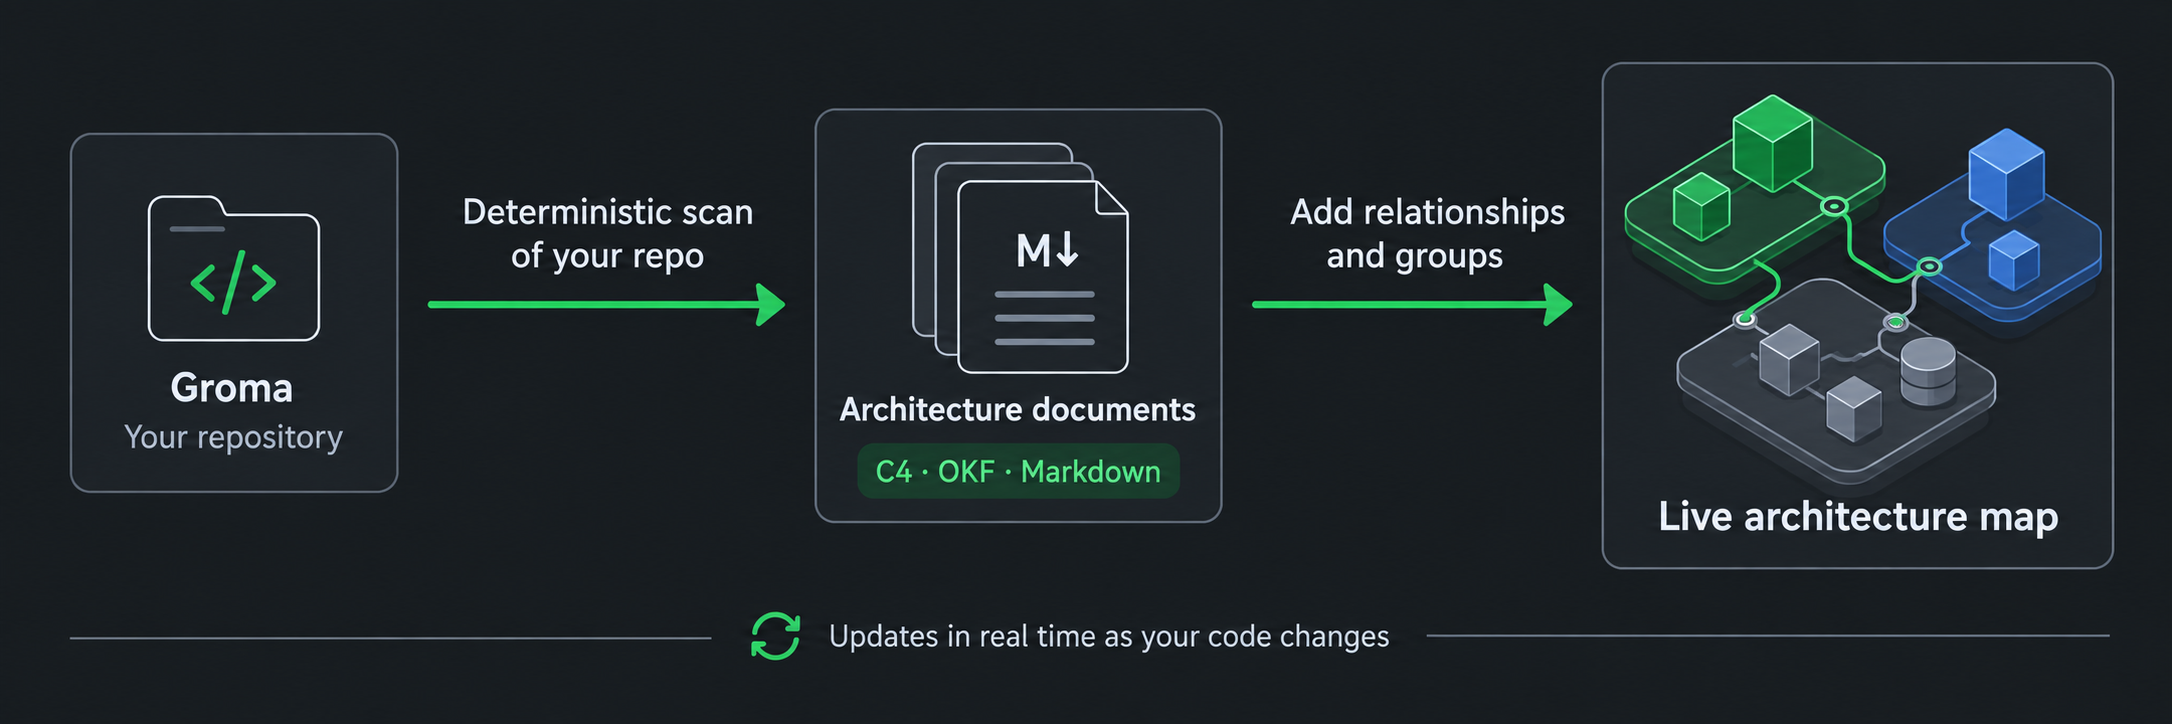
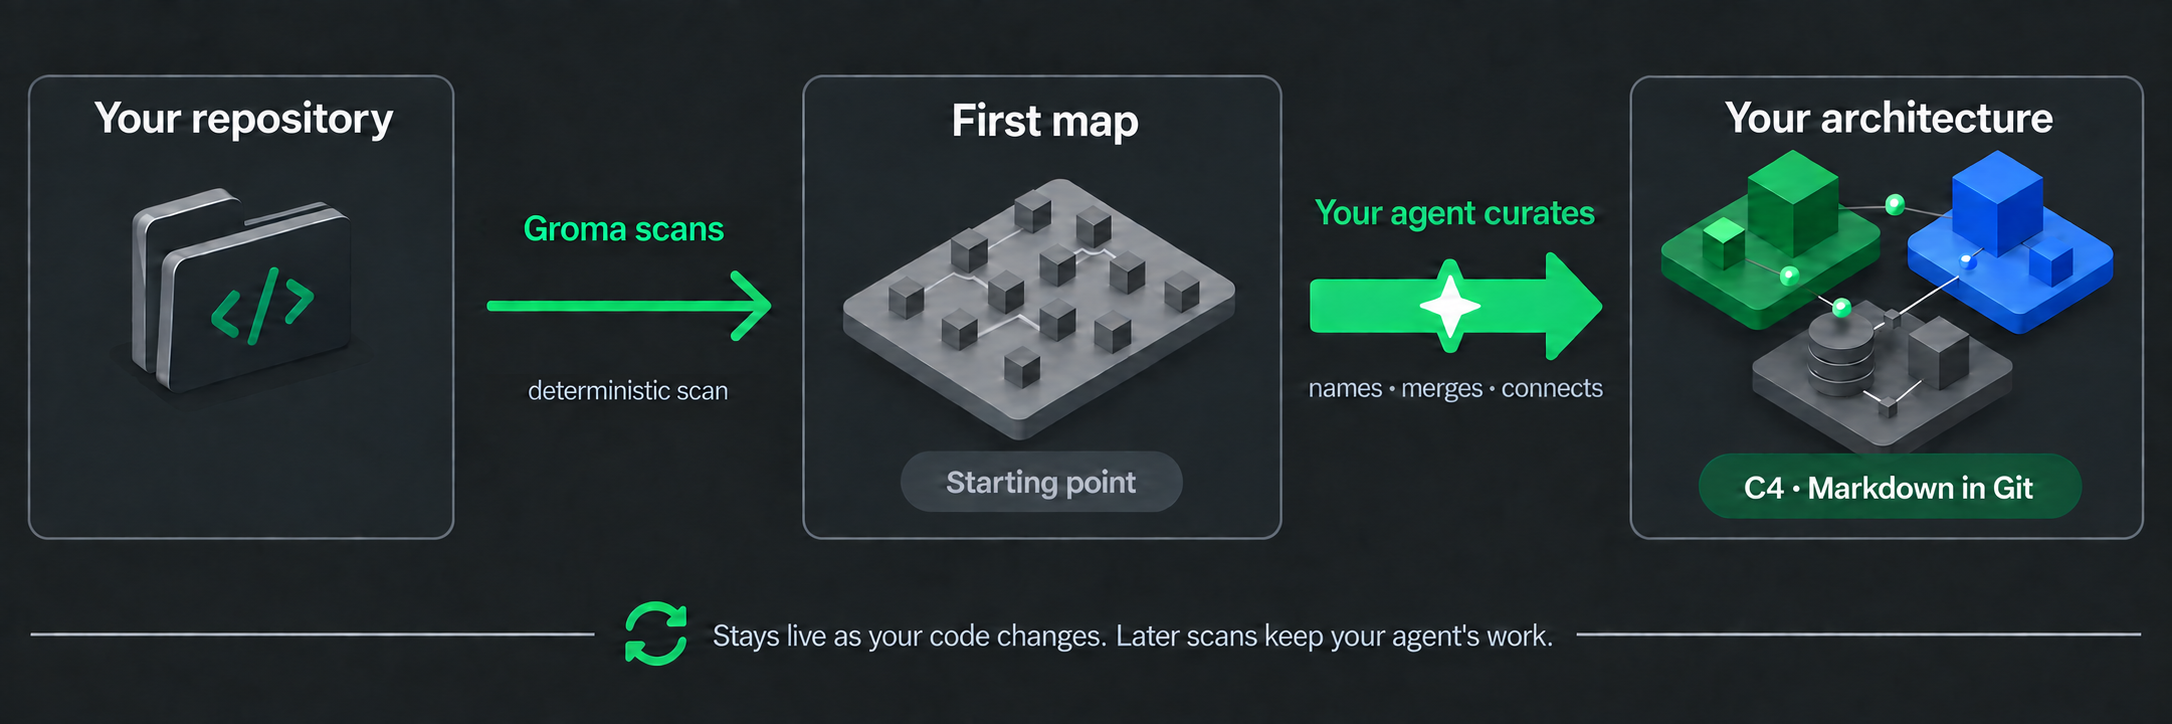
docs: show the scan, then agent curation, in README onboarding

diff --git a/README.md b/README.md
@@ -33,47 +33,58 @@
   <a href="https://mrlesk.github.io/Groma.md/architecture/blueprint/?theme=auto"><img src=".github/assets/explore-live-map.svg" alt="Explore the live map" width="232" height="48"></a>
 </p>
 
-Groma scans your code, draws it as a [C4](https://c4model.com) architecture map, and keeps that map open while you and your coding agents work. Save a file and the map updates. Work on a [Backlog.md](https://github.com/MrLesk/Backlog.md) task and it appears pinned to the components it touches. Everything is plain Markdown in your repository, so architecture changes are reviewed in the same pull request as the code.
+Groma scans your code into a first [C4](https://c4model.com) architecture map. Your coding agent curates it into the architecture you would explain to a new teammate, and the map stays open while you and your agents work. Save a file and the map updates. Work on a [Backlog.md](https://github.com/MrLesk/Backlog.md) task and it appears pinned to the components it touches. Everything is plain Markdown in your repository, so architecture changes are reviewed in the same pull request as the code.
 
-Free, MIT-licensed, and local. No account, backend, or AI service required.
+Free, MIT-licensed, and local. No account or backend, and Groma itself calls no AI service: curation uses the coding agent you already work with.
 
 <p align="center">
   <picture>
     <source media="(prefers-color-scheme: dark)" srcset=".github/assets/workflow-dark.png">
     <source media="(prefers-color-scheme: light)" srcset=".github/assets/workflow-light.png">
-    <img src=".github/assets/workflow-light.png" alt="Groma scans your repository into C4 architecture documents stored as OKF Markdown. Add relationships and groups to build a live architecture map that updates as your code changes." width="100%">
+    <img src=".github/assets/workflow-light.png" alt="Groma scans your repository with a deterministic scan into a first map, a starting point. Your coding agent curates it: it names, merges and connects components into your architecture, stored as C4 Markdown in Git. The map stays live as your code changes, and later scans keep your agent's work." width="100%">
   </picture>
 </p>
 
-## Install
+## Get started
+
+Three steps. The scan gives you a first map; your agent turns it into your architecture.
+
+### 1. Install
 
 ```sh
 npm i -g groma.md backlog.md
+```
+
+Backlog.md provides the tasks shown on the map; Groma works without it. macOS requires Apple Silicon.
+
+### 2. Scan
+
+```sh
 cd your-repo
 groma web     # browser map on http://localhost:4747
 ```
 
-For a new project, `groma web` guides you through project setup, scanner selection, and the first scan in your browser.
+On a new project, `groma web` walks you through project setup and scanner selection, then runs the first scan. The scan is deterministic: it turns your source into components and the relationships a scanner can detect. That first map is a starting point you can recognize and navigate, not your architecture yet.
 
-Backlog.md provides the tasks shown on the map; Groma works without it. macOS requires Apple Silicon.
+### 3. Curate with your agent
 
-## Use it with your agent
-
-The first scan gives you components and detected relationships. Your coding agent turns them into architecture: it reads the code, names responsibilities, merges records that belong together, and adds the relationships the scanner cannot see. Always do this after the first scan.
-
-Agents use the same CLI as people. Browser setup registers Groma in your `AGENTS.md` or `CLAUDE.md`, `groma agent-instructions` prints an index of task-focused agent guides, and every command explains itself through `--help`. Ask your agent:
+Your coding agent turns the first scan into architecture. It reads the code, names responsibilities, merges records that belong together, and adds the relationships the scanner cannot see. Keep the map open while it works: every change it makes appears on the map. Ask your agent:
 
 ```text
 Read the current Groma architecture with `groma agent-instructions` and `groma view --plain`. Compare it with the source code, then annotate the architecture so it reflects the code: combine records that share a responsibility, add missing overviews and relationships, and keep Backlog.md task links current. Use Groma's CLI for architecture changes, then summarize what you changed.
 ```
 
-Any file resolves to the architecture that owns it, so an agent can start from the code it just changed:
+Setup registers Groma in your `AGENTS.md` or `CLAUDE.md`, so your agent knows where to start. Later scans keep what your agent wrote.
+
+## Work with your agent
+
+Agents use the same CLI as people. `groma agent-instructions` prints an index of task-focused agent guides, and every command explains itself through `--help`. Any file resolves to the architecture that owns it, so an agent can start from the code it just changed:
 
 ```sh
 groma view src/orders.ts    # the owner of this file and its relationships
 ```
 
-Later scans keep what your agent wrote. [Agent guides](docs/agent-instructions/index.md)
+[Agent guides](docs/agent-instructions/index.md)
 
 ## What you get
 
